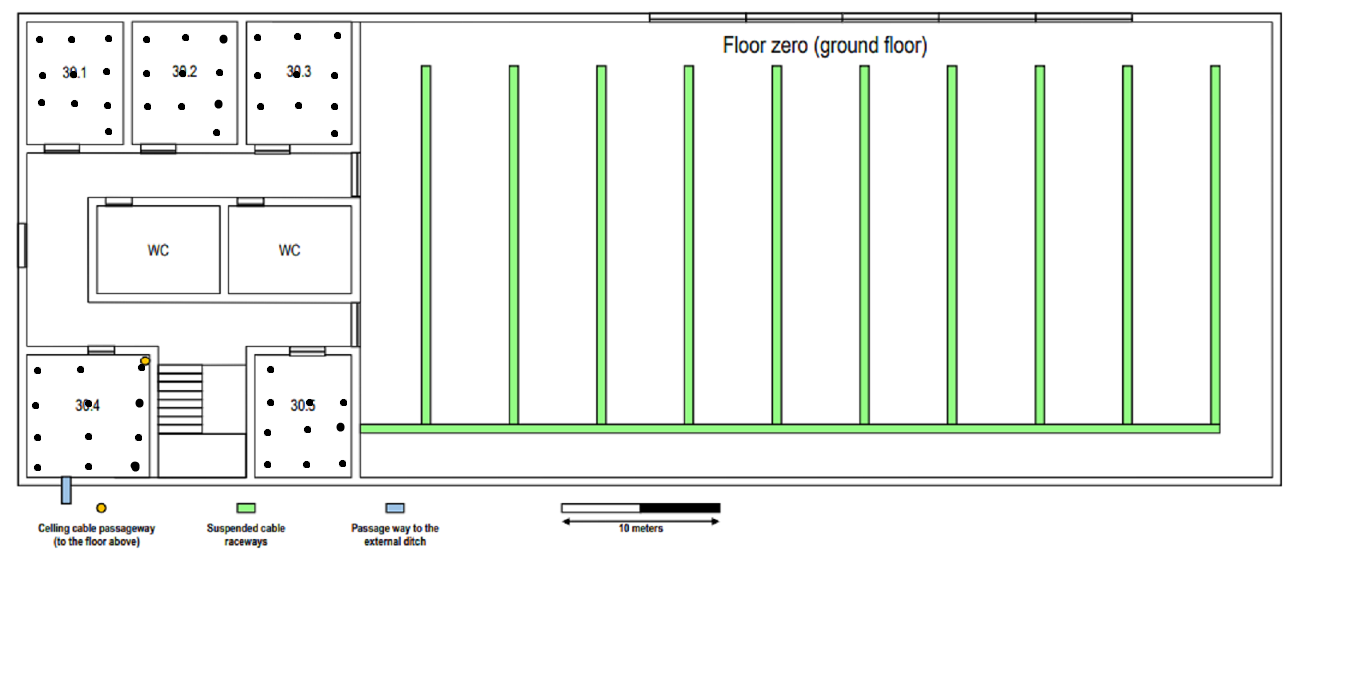
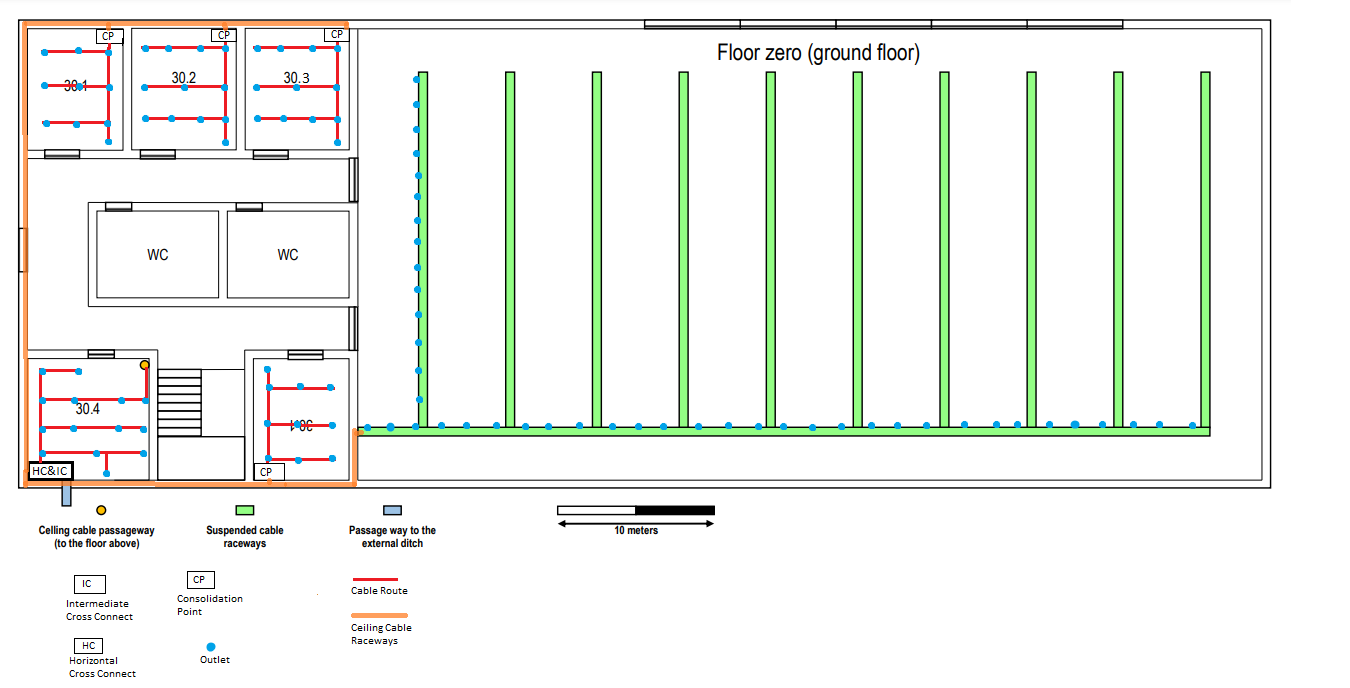
outlets, cables and measurements

diff --git a/doc/sprint1/1190693/README.md b/doc/sprint1/1190693/README.md
@@ -1,65 +1,100 @@
 RCOMP 2019-2020 Project - Sprint 1 - Member 1190693 folder
 ===========================================
-(This folder is to be created/edited by the team member 3333333 only)
-
-#### This is just an example for a team member with number 3333333 ####
-### Each member should create a folder similar to this, matching his/her number. ###
-The owner of this folder (member number 3333333) will commit here all the outcomes (results/artifacts/products)		       of his/her work during sprint 1. This may encompass any kind of standard file types.
 
 # Building 3:
 
 ## **Ground floor:**
+![Outlets_GroundFloor.png](Outlets_GroundFloor.png)
+
+    - Dimensions: 78.5 m x 29 m
+    - Area: 2276.5 m2
+
+## Inventory:
+- ### Outlet:
+    - Quantity: 398
+- ### Horizontal Cable:
+    - Type: CAT6A
+    - Total Distance: 0 m
+- ### Intermedieat Cross Connect:
+    - Components:
+        - 
+    - Quantity: 1
+    - Enclosure Size: 
+- ### Horizontal Cross Connect:
+    - Quantity: 1
+    - Enclosure Size: (With 50% OverSizing for future upgrades)
+- ### Consolidation Point:
+    - Components:
+        - Coper Patch Panel 24
+    - Quantity: 4
+    - Enclosure Size: 
+- ### Access point:
+    - Quantity: 
 
 ### Room 30.1: 
     - Dimensions: 6.1 m x 7.69 m
     - Area: 47 m2
     - Number of Outlets: 10 
+    - Total Cable Distance: 50 m
 ### Room 30.2: 
     - Dimensions: 6.9 m x 7.69 m
     - Area: 53 m2
-    - Number of Outlets: 10
+    - Number of Outlets: 12
+    - Total Cable Distance: 65 m
 ### Room 30.3: 
     - Dimensions: 6.5 m x 7.69 m
     - Area: 50 m2
-    - Number of Outlets: 10
+    - Number of Outlets: 12
+    - Total Cable Distance: 65 m
 ### Room 30.4:
     - Dimensions: 7.69 m x 7.69 m
     - Area: 60 m2
-    - Number of Outlets: 12
+    - Number of Outlets: 14
+    - Total Cable Distance: 90 m
 ### Room 30.5: 
     - Dimensions: 6.1 m x 7.69 m
     - Area: 47 m2
     - Number of Outlets: 10
+    - Total Cable Distance: 50 m
 ### Right Open Area: 
     - Dimensions: 58.5 m x 29.2 m
     - Area: 1708 m2
     - Number of Outlets: 340
+    - Total Cable Distance: 0 m
 
-![Outlets_GroundFloor.png](Outlets_GroundFloor.png)
+
+
 
 ## **First floor:**
-
+![Outlets_FirstFloor.png](Outlets_FirstFloor.png)
 ### Room 31.1: 
     - Dimensions: 6.1 m x 7.69 m
     - Area: 47 m2
-    - Number of Outlets: 10 
+    - Total Cable Distance: 50 m
 ### Room 31.2: 
     - Dimensions: 6.5 m x 7.69 m
     - Area: 50 m2
-    - Number of Outlets: 10
+    - Number of Outlets: 12
+    - Total Cable Distance: 55 m
 ### Room 31.3: 
     - Dimensions: 6.5 m x 11.69 m
     - Area: 76 m2
     - Number of Outlets: 16
+    - Total Cable Distance: 115 m
 ### Room 31.4:
     - Dimensions: 7.69 m x 7.69 m
     - Area: 60 m2
-    - Number of Outlets: 12
+    - Number of Outlets: 14
+    - Total Cable Distance: 80 m
 ### Room 31.5: 
     - Dimensions: 6.1 m x 7.69 m
     - Area: 47 m2
     - Number of Outlets: 10
-### Right Open Area: 
-    - Dimensions: 58.5 m x 29.2 m
-    - Area: 1708 m2
-    - Number of Outlets: 340
+    - Total Cable Distance: 50 m
+### Room 31.6: 
+    - Dimensions: 6.7 m x 4.8 m
+    - Area: 32 m2
+    - Number of Outlets: 8
+    - Total Cable Distance: 33 m
+
+
